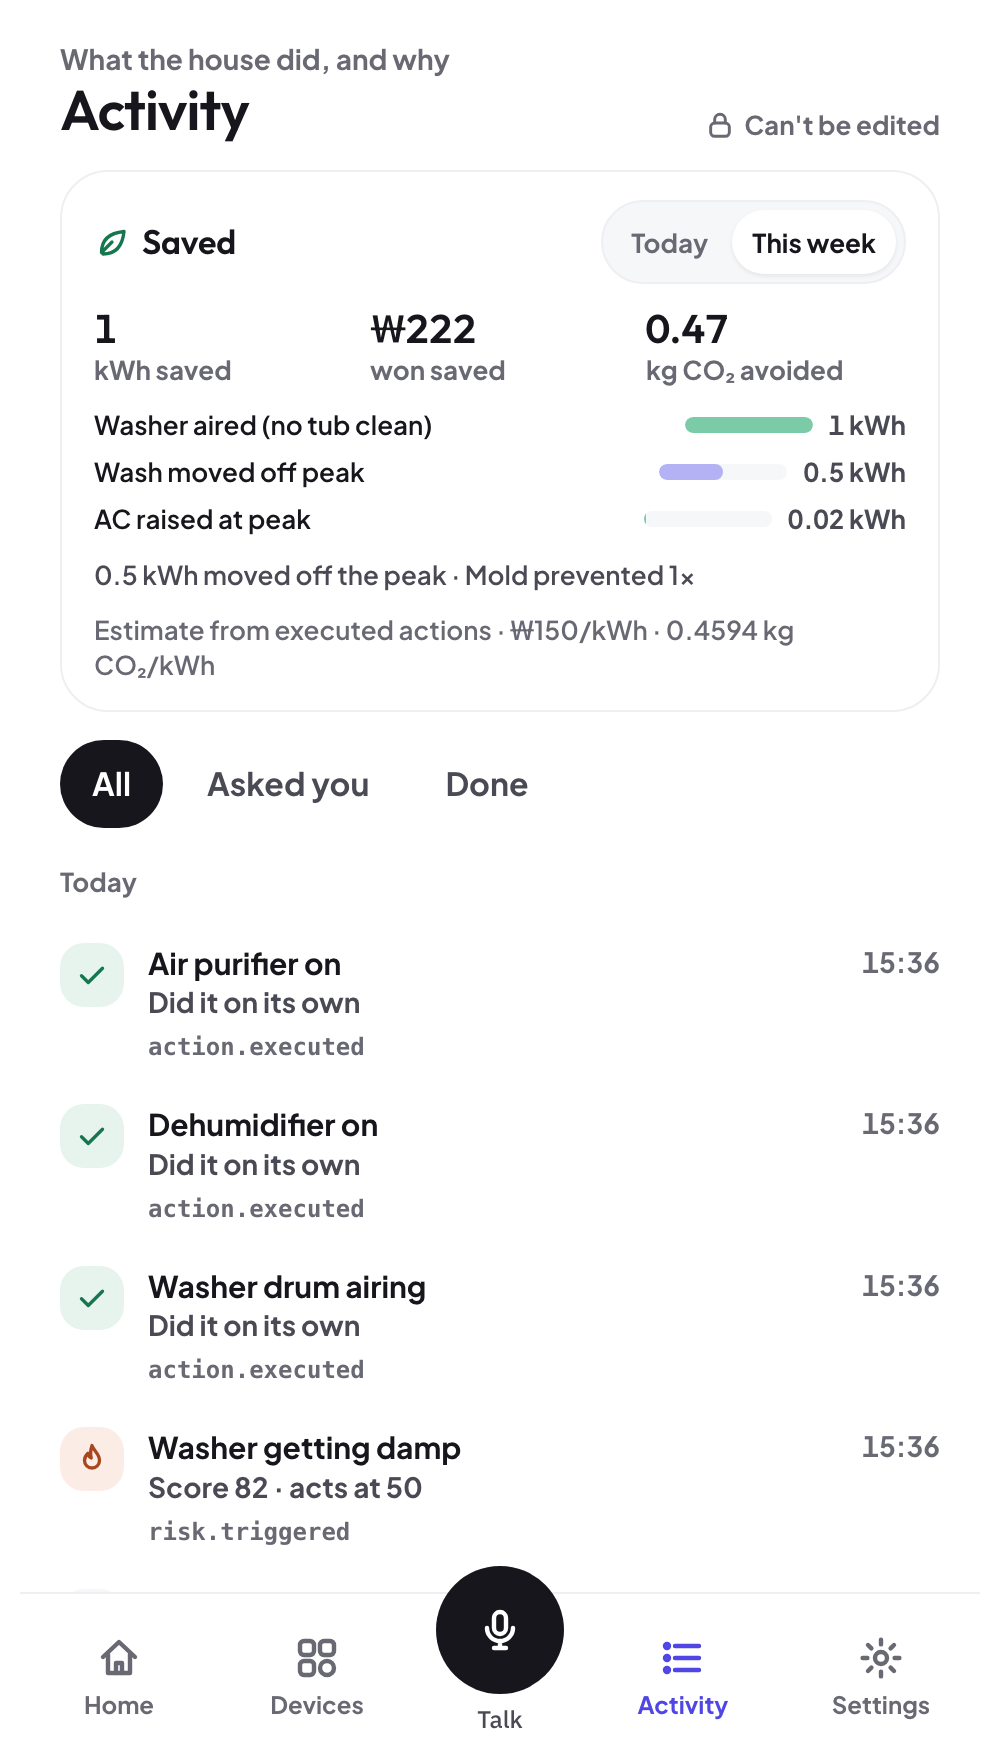
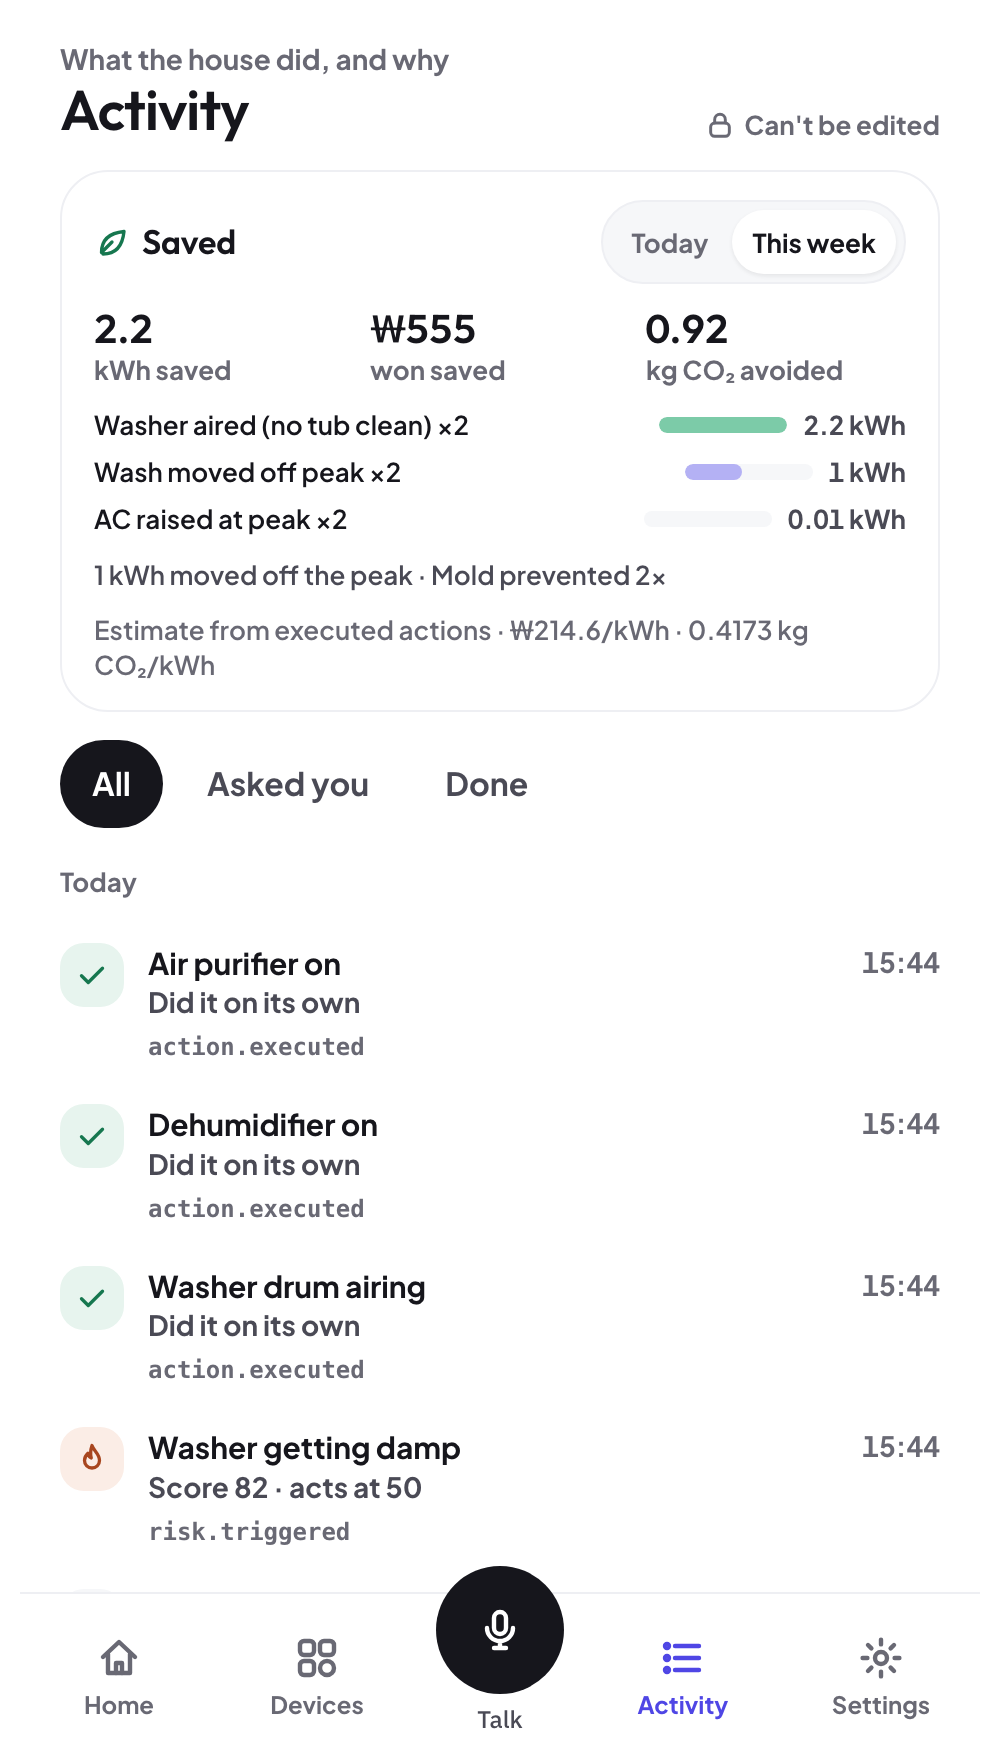
docs: source the FR-7 savings assumptions
KEPCO tariff (tier-2 marginal price, residential time-of-use), the 2023
national grid emission factor, the Korea Energy Agency 4.7 %/degC AC
measurement and LG appliance specifications, with seven new references.
Use Case 11 screenshot recaptured with the new values.

diff --git a/docs/project_specifications_final.tex b/docs/project_specifications_final.tex
@@ -243,30 +243,30 @@ To ensure end-to-end traceability across risk evaluation, user consent, and hard
 \subsection{FR-7: Energy and Environment Savings Report}
 The household should be able to see what the agent's interventions were worth, not only what they were (\texttt{app/savings.py}, \texttt{GET /api/savings?period=today|week}). Because what would have happened without an action is not observable, every figure is an \emph{estimate} derived only from \texttt{action.executed} rows of the audit trail: a declined question, an expired request or a failed command counts for nothing. Three quantities are kept apart:
 \begin{itemize}
-    \item \textbf{Energy saved} (kWh not consumed): \texttt{eco\_ac} raises a setpoint by 2~$^\circ$C, counted at 200~W until the same AC is changed again, the demo is reset or three hours pass; a cooktop auto-off avoids about 0.45~kWh (1.8~kW for 15~min); a mold episode handled by \texttt{ventilate\_washer} avoids one 1.0~kWh hot-water tub-clean cycle.
-    \item \textbf{Energy shifted} (same kWh, used later): \texttt{pause\_washer} moves about 0.5~kWh out of the peak band; \texttt{stop\_dryer} keeps about 0.9~kWh out of a kitchen overload.
-    \item \textbf{Cost and CO$_2$}: energy saved at the average price plus shifted peak energy at the peak/off-peak price difference; CO$_2$ is counted on energy saved only, since shifting changes cost and peak demand but not total consumption.
+    \item \textbf{Energy saved} (kWh not consumed): \texttt{eco\_ac} raises a setpoint by 2~$^\circ$C; at 4.7\% less power per degree \cite{kea2017} on an 845~W wall air conditioner \cite{lgac2024} this is about 79~W, counted until the same AC is changed again, the demo is reset or three hours pass. A cooktop auto-off avoids about 0.5~kWh (a 2.0~kW induction zone \cite{lgcook2026} for 15~min); a mold episode handled by \texttt{ventilate\_washer} avoids one hot-water tub-clean course, about 1.1~kWh (a 2.2~kW washer heater \cite{lgwash2026} for 30~min).
+    \item \textbf{Energy shifted} (same kWh, used later): \texttt{pause\_washer} moves about 0.5~kWh (an unheated wash, 500~W for an hour) out of the peak band; \texttt{stop\_dryer} keeps about 0.7~kWh (a 1.4~kW heat-pump dryer \cite{lgdry2026} for 30~min) out of a kitchen overload.
+    \item \textbf{Cost and CO$_2$}: energy saved at the household's marginal price plus shifted peak energy at the peak/off-peak price difference; CO$_2$ is counted on energy saved only, since shifting changes cost and peak demand but not total consumption.
 \end{itemize}
-Table~\ref{tab:savings} lists the assumptions; they are constants in one module so they can be replaced with a household's actual tariff. The interface states that the numbers are estimates and prints the price and emission factor used.
+Table~\ref{tab:savings} lists the assumptions and their sources; they are constants in one module so they can be replaced with a household's actual tariff and appliances. Prices are the KEPCO energy charge only \cite{kepco2023}: the marginal kWh of a typical household falls in the second progressive tier, and the peak/off-peak pair is the published residential time-of-use rate (Jeju), whose 16--22~h peak matches the simulated evening peak; mainland households do not yet have a time-of-use rate. Climate-environment and fuel-cost charges, VAT and the power-industry fund are left out, so the won figure is conservative. CO$_2$ uses the 2023 national grid emission factor \cite{mcee2025}. The interface states that the numbers are estimates and prints the price and emission factor used.
 
 \begin{table}[htbp]
 \caption{Assumptions of the Savings Estimate (FR-7)}
 \label{tab:savings}
 \centering
 \footnotesize
-\begin{tabular}{p{4.3cm}p{2.9cm}}
+\begin{tabular}{p{3.5cm}p{1.9cm}p{1.5cm}}
 \toprule
-\textbf{Quantity} & \textbf{Value} \\
+\textbf{Quantity} & \textbf{Value} & \textbf{Source} \\
 \midrule
-Average / peak / off-peak price & 150 / 250 / 110 KRW/kWh$^{\dagger}$ \\
-Grid emission factor & 0.4594 kg CO$_2$/kWh$^{\dagger}$ \\
-\texttt{eco\_ac} (+2~$^\circ$C) & 200 W, at most 3 h \\
-Cooktop auto-off & 0.45 kWh saved \\
-Tub-clean cycle avoided & 1.0 kWh saved \\
-Wash paused at peak & 0.5 kWh shifted \\
-Dryer stopped during cooking & 0.9 kWh shifted \\
+Price (2nd tier, marginal) & 214.6 KRW/kWh & \cite{kepco2023} \\
+Peak / off-peak (TOU) & 220.5 / 138.7 KRW/kWh & \cite{kepco2023} \\
+Grid emission factor & 0.4173 kg CO$_2$/kWh & \cite{mcee2025} \\
+\texttt{eco\_ac} (+2~$^\circ$C) & 845 W $\times$ 4.7\%/$^\circ$C $\times$ 2 $\approx$ 79 W, $\leq$ 3 h & \cite{lgac2024,kea2017} \\
+Cooktop auto-off & 2.0 kW $\times$ 15 min = 0.5 kWh & \cite{lgcook2026} \\
+Tub-clean course avoided & 2.2 kW $\times$ 30 min = 1.1 kWh & \cite{lgwash2026} \\
+Wash paused at peak & 0.5 kW $\times$ 1 h = 0.5 kWh shifted & simulator \\
+Dryer stopped during cooking & 1.4 kW $\times$ 30 min = 0.7 kWh shifted & \cite{lgdry2026} \\
 \bottomrule
-\multicolumn{2}{p{7.2cm}}{\scriptsize $^{\dagger}$Demonstration values; to be replaced with the current KEPCO residential tariff and the officially published national grid emission factor.}
 \end{tabular}
 \end{table}
 
@@ -577,6 +577,13 @@ The hardest part of this phase was not a single algorithm but keeping four peopl
 \bibitem{seoulfire2020} Seoul Metropolitan Fire Headquarters, ``2019 Residential Fire Statistics Analysis,'' 2020.
 \bibitem{nfa2025} National Fire Agency, ``Chuseok Holiday Fire Safety Bulletin,'' Seoul Shinmun, 2025.
 \bibitem{who2009} World Health Organization (WHO), ``WHO Guidelines for Indoor Air Quality: Dampness and Mould,'' 2009.
+\bibitem{kepco2023} Korea Electric Power Corporation (KEPCO), ``Electricity Tariff Table (comprehensive), effective 16 May 2023,'' 2023. [Online]. Available: https://cyber.kepco.co.kr
+\bibitem{mcee2025} Ministry of Climate, Energy and Environment, ``National electricity emission factor for 2023: 0.4173 tCO$_2$eq/MWh,'' announcement, 18 Dec. 2025.
+\bibitem{kea2017} Korea Energy Agency, measurement of air-conditioner power at set-points 22--26~$^\circ$C ($-4.7$\% per $+1$~$^\circ$C), reported by YTN, 24 Jul. 2017.
+\bibitem{lgac2024} LG Electronics, ``LG Whisen wall-mounted air conditioner SQ09MDKWMS: specifications (rated cooling power 845 W),'' lge.co.kr, 2024.
+\bibitem{lgcook2026} LG Electronics, ``LG DIOS induction range BEI3ASS4E: specifications (large zone 2,000 W, turbo 3,400 W),'' lge.co.kr, 2026.
+\bibitem{lgwash2026} LG Electronics, ``LG TROMM washer F24VDLPR: specifications (2,200 W; tub-sterilize course),'' lge.co.kr, 2026.
+\bibitem{lgdry2026} LG Electronics, ``LG TROMM heat-pump dryer RD25GS: specifications (1,400 W),'' lge.co.kr, 2026.
 \bibitem{lgspec2026} LG Electronics, ``LG ThinQ Platform Specifications,'' Official Whitepaper, 2026.
 \bibitem{samsung2026b} Samsung India, ``2026 Range of Bespoke AI Appliances,'' Press Release, 2026.
 \bibitem{steadman1984} R. G. Steadman, ``A universal scale of apparent temperature,'' \emph{Journal of Climate and Applied Meteorology}, vol. 23, no. 12, pp. 1674--1687, 1984.
